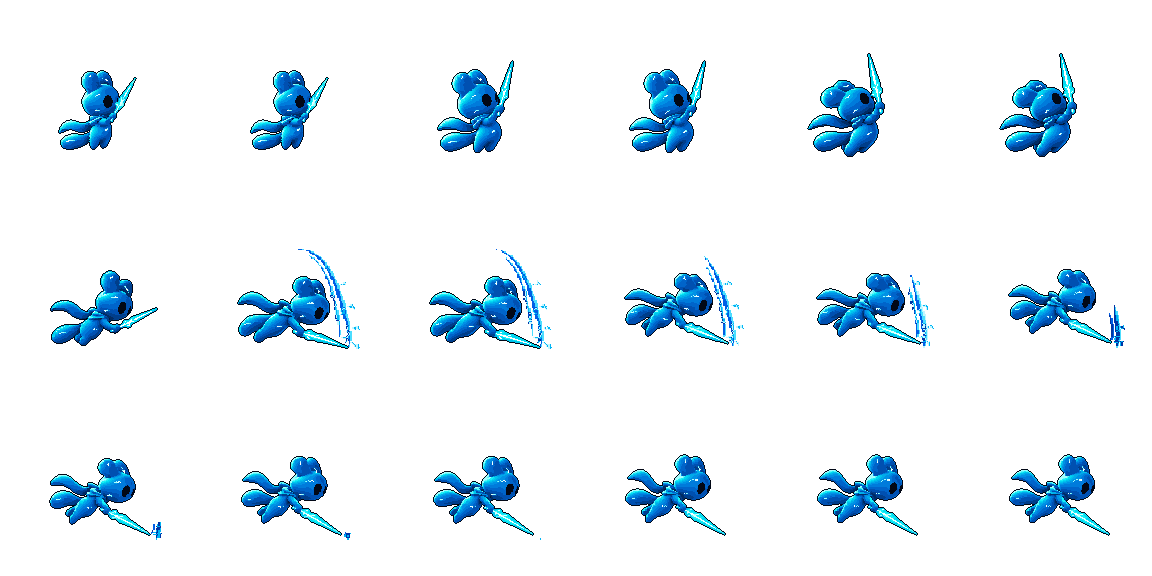
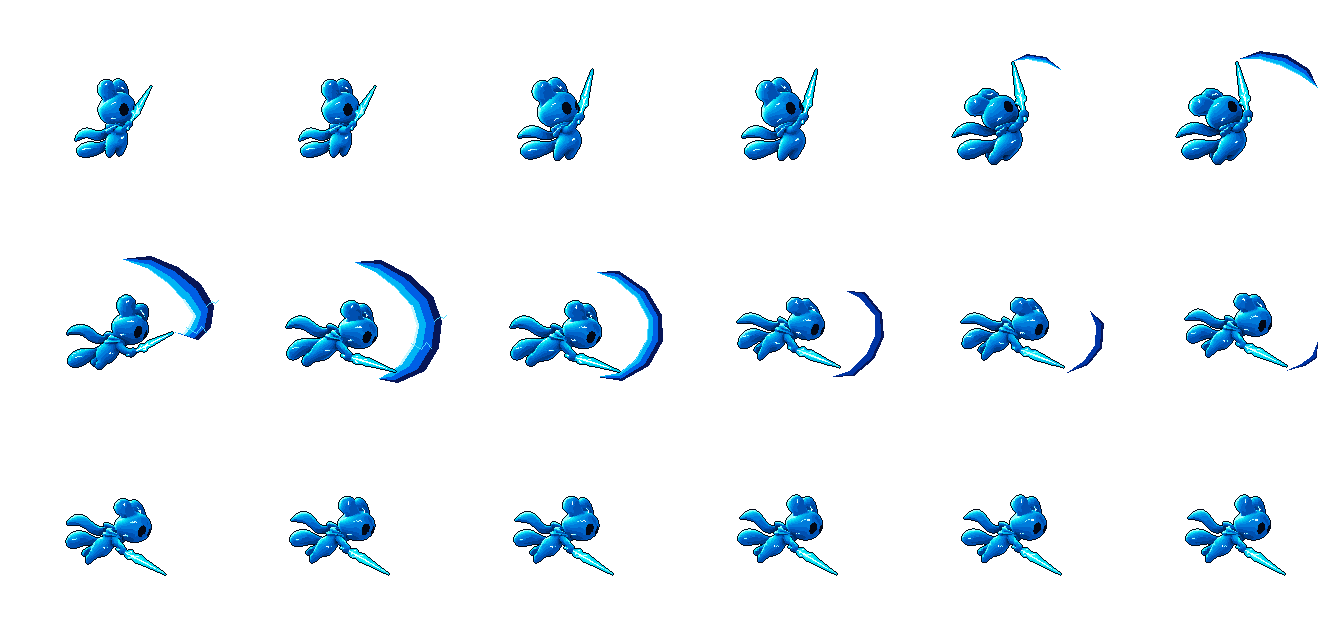
fix(art): 공중 일반·아래 베기 효과 확대
지상 검격의 화면 크기를 기준으로 두 공중 검격의 pixelfx 밝은 면과 사방 폭을 넓혔다. 공중 일반 검격은 원래 발 기준점을 유지하도록 셀 여백을 늘렸다.

실제 전원 구역 SDL 창의 지상 기준과 공중 일반·아래 베기 적중 장면을 수정 전후 같은 배율로 비교했다.

diff --git a/assets/warden/README.md b/assets/warden/README.md
@@ -8,7 +8,7 @@
 | run_left.png | art/warden/provisional-approved/run-v4/run_left/sheet.png | 618ef3377b2682ee6d15ab4052a208f041562adcaed406a0361977ca7460940e |
 | run_right.png | art/warden/provisional-approved/run-v4/run_right/sheet.png | c29d16562b7df8a8ec927b031ef1589bdf6252467afb648f1537af60977fc3aa |
 | attack.png | `art/warden/ground-step-slash-v1` 몸체 위에 `art/warden/ground-crescent-discharge-refined/slash.png`의 Pixelfx 분기 방전 초승달을 합성 | 0fc07afb21d30d24d5b37127a44baa3bc838225107085329f30bf53f2f110073 |
-| air_attack.png | `art/warden/provisional-approved/air-rebound-v9-current-v4/frames` 몸체와 `art/warden/air-rebound-fx-v2/frames` 효과를 합성 | cda5e614fffab2b4c327a3fa4a043e4d49e32855b160800458b04d6a6e0dc171 |
+| air_attack.png | `art/warden/provisional-approved/air-rebound-v9-current-v4/frames` 몸체와 `air-attack-source/sweep.mjs`의 넓은 pixelfx 궤적을 합성 | 8d19cf1c7a783492c2872ed9ee5d8ee23f6a286e74fc39d75967786a421fecf1 |
 | prepare_idle_left.png | art/warden/provisional-approved/dash-eye-cape-v1/prepare_idle_left/sheet.png | efb9df7c2c976ace57b8a0d2448dac120bf4616e414edaa58bac91e12ae1ce1e |
 | prepare_idle_right.png | art/warden/provisional-approved/dash-eye-cape-v1/prepare_idle_right/sheet.png | 3ba433a4573f4cf45a085579ab10bf5a355c72e528446974023bc0fff342c3d0 |
 | prepare_run_left.png | art/warden/provisional-approved/dash-eye-cape-v1/prepare_run_left/sheet.png | f4db13401e9771a363a726689ad5ab573b1e519955e07a8eba3e757c5023f4f5 |
